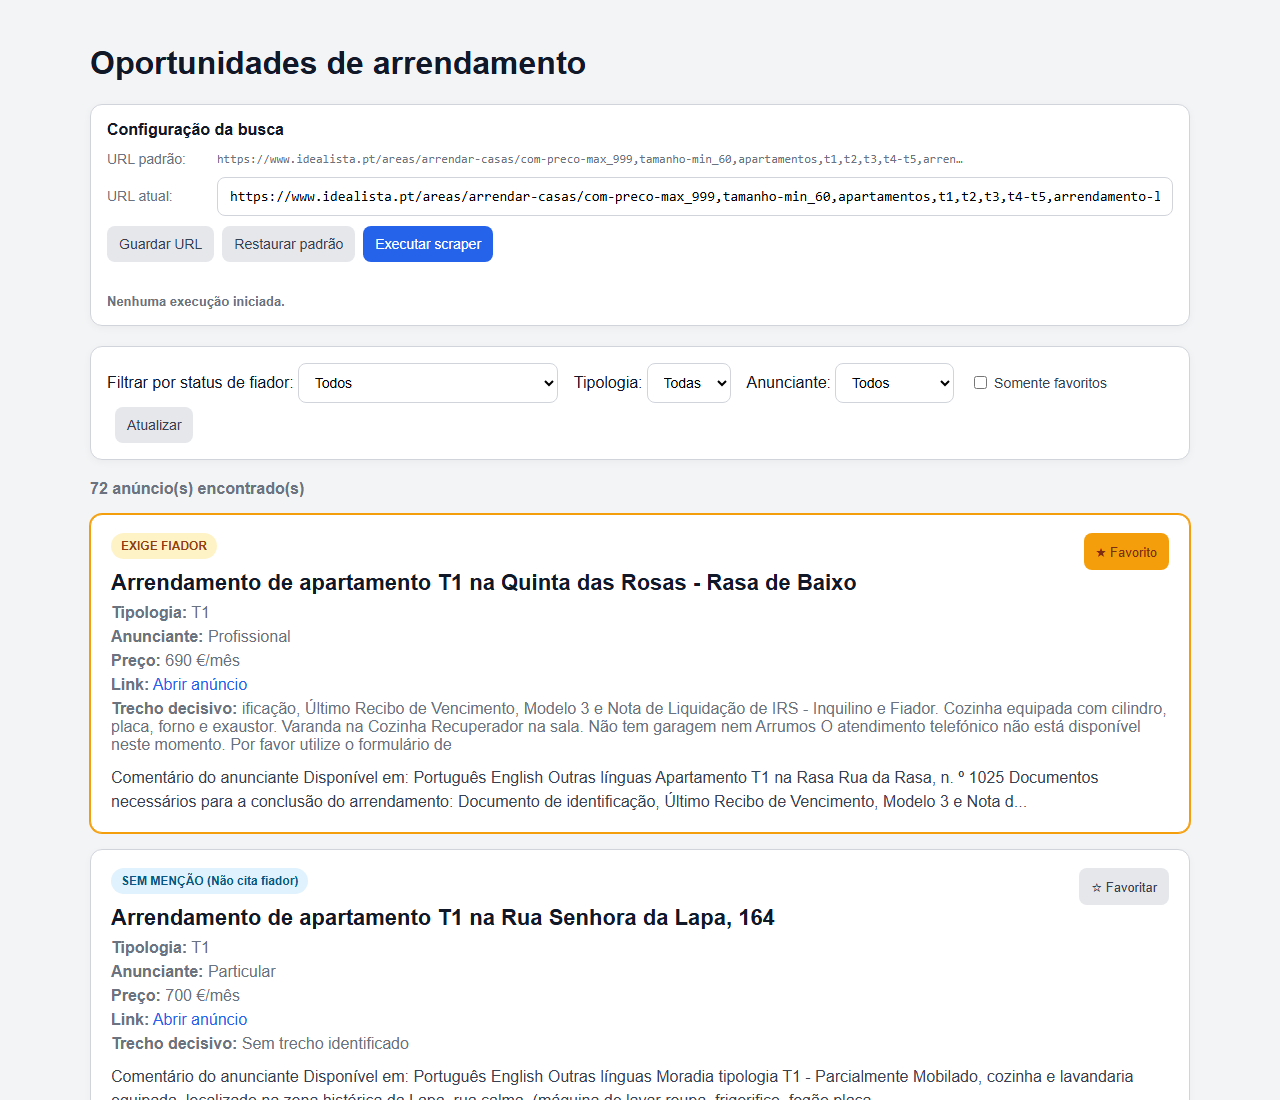
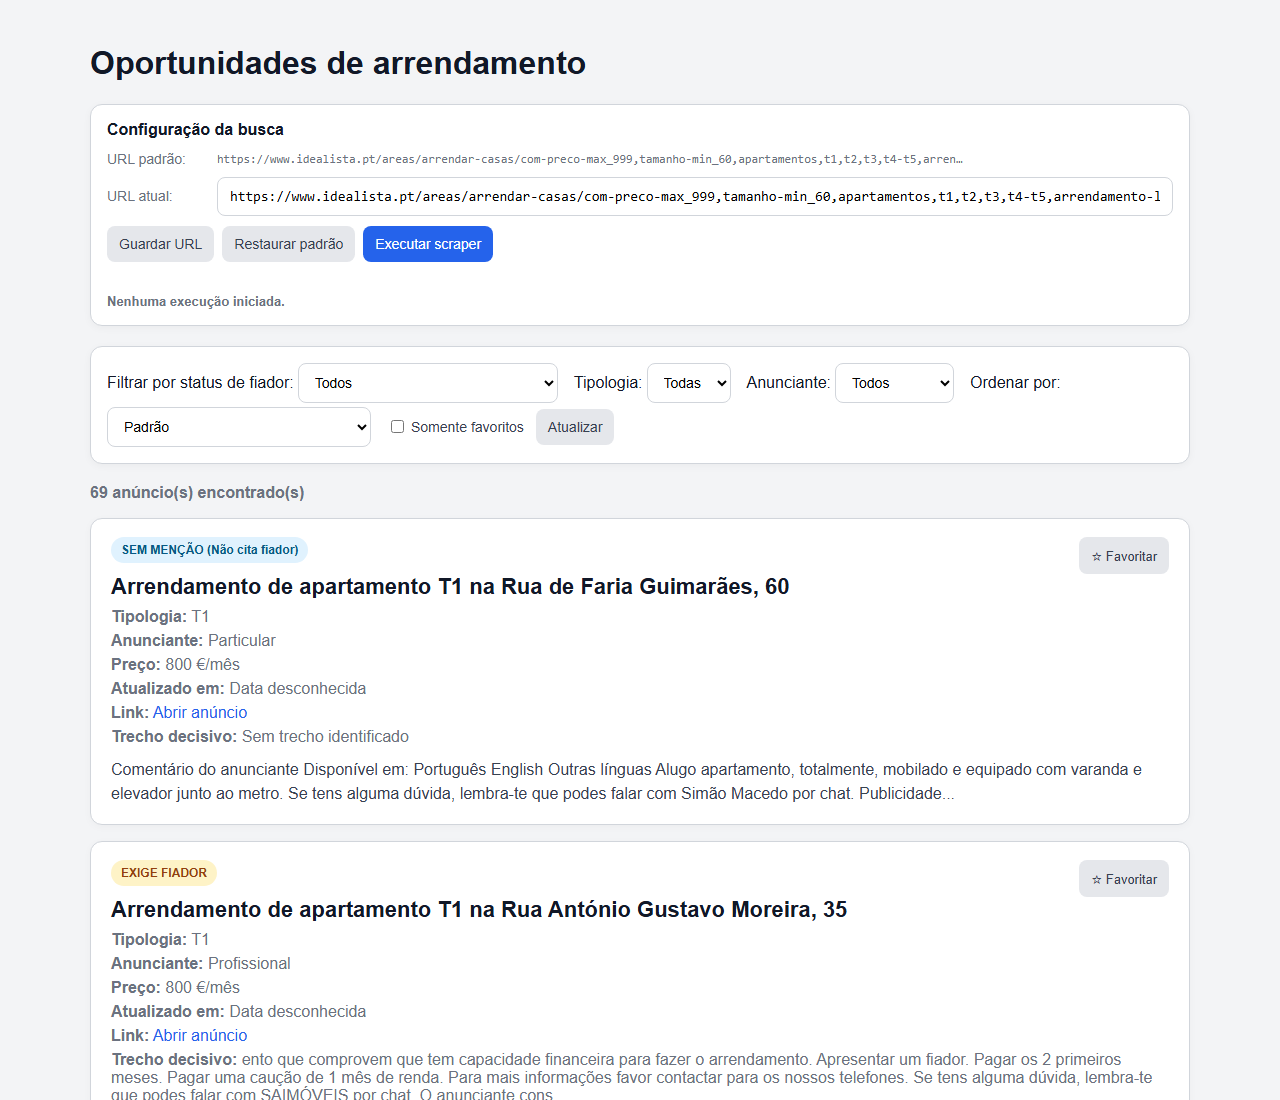
Add sorting by ad update date
- scraper.py now reads the "Anúncio atualizado no dia D de Mês" text
  idealista shows on each listing (the only recency signal it exposes) and
  stores it as an ISO date per ad; ads missing it fall back gracefully
- UI gains an "Ordenar por" dropdown (most/least recently updated), with
  undated ads always sorted to the end regardless of direction
- Add unit tests for the date-parsing helper, including the year-rollover
  edge case around December/January

diff --git a/static/app.js b/static/app.js
@@ -2,6 +2,7 @@ const els = {
   statusFilter: document.getElementById('statusFilter'),
   tipologiaFilter: document.getElementById('tipologiaFilter'),
   anuncianteFilter: document.getElementById('anuncianteFilter'),
+  sortOrder: document.getElementById('sortOrder'),
   favoritosOnly: document.getElementById('favoritosOnlyFilter'),
   summary: document.getElementById('summary'),
   results: document.getElementById('results'),
@@ -43,6 +44,12 @@ function fillSelect(selectEl, values, allLabel, allValue) {
   selectEl.value = options.includes(selected) ? selected : allValue;
 }
 
+function formatarData(isoDate) {
+  if (!isoDate) return 'Data desconhecida';
+  const [ano, mes, dia] = isoDate.split('-');
+  return `${dia}/${mes}/${ano}`;
+}
+
 function applyFilters(data) {
   const statusSelected = els.statusFilter.value || 'todos';
   const tipologiaSelected = els.tipologiaFilter.value || 'todas';
@@ -58,8 +65,22 @@ function applyFilters(data) {
   });
 }
 
+function applySort(data) {
+  const ordem = els.sortOrder.value || 'padrao';
+  if (ordem === 'padrao') return data;
+
+  const direcao = ordem === 'data_desc' ? -1 : 1;
+  return [...data].sort((a, b) => {
+    // Anúncios sem data de atualização vão sempre para o fim, independente da direção.
+    if (!a.data_atualizacao && !b.data_atualizacao) return 0;
+    if (!a.data_atualizacao) return 1;
+    if (!b.data_atualizacao) return -1;
+    return a.data_atualizacao < b.data_atualizacao ? -direcao : direcao;
+  });
+}
+
 function render() {
-  const filtered = applyFilters(cachedData);
+  const filtered = applySort(applyFilters(cachedData));
   els.summary.textContent = `${filtered.length} anúncio(s) encontrado(s)`;
 
   if (!filtered.length) {
@@ -79,6 +100,7 @@ function render() {
       <div class="meta"><strong>Tipologia:</strong> ${item.tipologia || 'Indefinida'}</div>
       <div class="meta"><strong>Anunciante:</strong> ${item.tipo_anunciante || 'Desconhecido'}</div>
       <div class="meta"><strong>Preço:</strong> ${item.preco}</div>
+      <div class="meta"><strong>Atualizado em:</strong> ${formatarData(item.data_atualizacao)}</div>
       <div class="meta"><strong>Link:</strong> <a href="${item.link}" target="_blank" rel="noreferrer">Abrir anúncio</a></div>
       <div class="meta"><strong>Trecho decisivo:</strong> ${item.trecho_status || 'Sem trecho identificado'}</div>
       <div class="descricao">${item.descricao}</div>
@@ -193,6 +215,7 @@ async function runScraper() {
 els.statusFilter.addEventListener('change', render);
 els.tipologiaFilter.addEventListener('change', render);
 els.anuncianteFilter.addEventListener('change', render);
+els.sortOrder.addEventListener('change', render);
 els.favoritosOnly.addEventListener('change', render);
 els.refreshBtn.addEventListener('click', fetchResults);
 els.saveUrlBtn.addEventListener('click', saveUrl);

diff --git a/static/index.html b/static/index.html
@@ -37,6 +37,12 @@
         <select id="tipologiaFilter"></select>
         <label for="anuncianteFilter" style="margin-left: 12px;">Anunciante:</label>
         <select id="anuncianteFilter"></select>
+        <label for="sortOrder" style="margin-left: 12px;">Ordenar por:</label>
+        <select id="sortOrder">
+          <option value="padrao">Padrão</option>
+          <option value="data_desc">Data de atualização (mais recente)</option>
+          <option value="data_asc">Data de atualização (mais antiga)</option>
+        </select>
         <label class="favoritos-only" style="margin-left: 12px;">
           <input id="favoritosOnlyFilter" type="checkbox" />
           Somente favoritos

diff --git a/scraper.py b/scraper.py
@@ -2,6 +2,7 @@ import asyncio
 import json
 import random
 import re
+from datetime import date
 from playwright.async_api import async_playwright
 
 from storage import URL_BASE_DEFAULT, Storage, default_storage
@@ -9,6 +10,12 @@ from storage import URL_BASE_DEFAULT, Storage, default_storage
 TEMPO_ENTRE_PAGINAS = 3.0
 TEMPO_ENTRE_ANUNCIOS = 2.5
 TEMPO_ANTES_PROXIMA_PAGINA = 1.5
+
+MESES_PT = {
+    "janeiro": 1, "fevereiro": 2, "março": 3, "marco": 3, "abril": 4, "maio": 5,
+    "junho": 6, "julho": 7, "agosto": 8, "setembro": 9, "outubro": 10,
+    "novembro": 11, "dezembro": 12,
+}
 
 PADROES_EXPLICITOS = [
     r"sem fiador",
@@ -136,6 +143,43 @@ def extrair_trecho_status(texto: str, padrao: str | None = None) -> str | None:
     inicio = max(0, match.start() - 90)
     fim = min(len(texto_normalizado), match.end() + 220)
     return texto_normalizado[inicio:fim].strip()
+
+
+def extrair_data_atualizacao(texto: str | None, hoje: date | None = None) -> str | None:
+    """Converte "Anúncio atualizado no dia 14 de Agosto" em "2026-08-14".
+
+    O idealista não indica o ano nesse texto, então assume-se o ano corrente;
+    se a data resultante cair no futuro (ex.: a virada do ano, analisando em
+    janeiro um anúncio atualizado em dezembro), assume-se o ano anterior.
+    """
+    if not texto or not texto.strip():
+        return None
+
+    match = re.search(
+        r"atualizad[oa]\s+no\s+dia\s+(\d{1,2})\s+de\s+([A-Za-zÀ-ÿ]+)",
+        texto,
+        re.IGNORECASE,
+    )
+    if not match:
+        return None
+
+    mes = MESES_PT.get(match.group(2).strip().lower())
+    if not mes:
+        return None
+
+    hoje = hoje or date.today()
+    try:
+        data = date(hoje.year, mes, int(match.group(1)))
+    except ValueError:
+        return None
+
+    if data > hoje:
+        try:
+            data = date(hoje.year - 1, mes, int(match.group(1)))
+        except ValueError:
+            return None
+
+    return data.isoformat()
 
 
 def detectar_bloqueio_idealista(texto: str) -> bool:
@@ -296,6 +340,17 @@ async def extrair_dados_detalhe(page):
 
     return titulo or "Imóvel", preco, descricao
 
+
+async def extrair_data_atualizacao_pagina(page) -> str | None:
+    """Lê o bloco de estatísticas do anúncio, que carrega de forma assíncrona."""
+    try:
+        el = await page.wait_for_selector(".stats-text", timeout=5000)
+        texto = (await el.inner_text()).strip()
+    except Exception:
+        texto = None
+    return extrair_data_atualizacao(texto)
+
+
 async def extrair_proxima_pagina(page):
     seletores = [
         "a[rel='next']",
@@ -397,6 +452,7 @@ async def raspar_idealista_porto(url_base: str | None = None, store: Storage | N
                 await detalhe_page.goto(url, wait_until="networkidle", timeout=20000)
 
                 titulo, preco, descricao_completa = await extrair_dados_detalhe(detalhe_page)
+                data_atualizacao = await extrair_data_atualizacao_pagina(detalhe_page)
 
                 passou_filtro, status_match, trecho_status = analisar_fiador(descricao_completa)
                 tipo_anunciante = extrair_tipo_anunciante(descricao_completa)
@@ -415,6 +471,7 @@ async def raspar_idealista_porto(url_base: str | None = None, store: Storage | N
                     "link": url,
                     "descricao": descricao_completa[:250].replace("\n", " ") + "...",
                     "passou_filtro": passou_filtro,
+                    "data_atualizacao": data_atualizacao,
                 })
 
             except Exception as e:

diff --git a/tests/unit/test_scraper_parsing.py b/tests/unit/test_scraper_parsing.py
@@ -1,4 +1,6 @@
 """Testes das funções puras de análise de texto do scraper (sem Playwright)."""
+from datetime import date
+
 import scraper
 
 
@@ -104,3 +106,26 @@ class TestAnalisarFiador:
         assert passou is True
         assert status == "EXIGE FIADOR"
         assert trecho is not None
+
+
+class TestExtrairDataAtualizacao:
+    def test_extrai_data_dentro_do_ano_corrente(self):
+        hoje = date(2026, 9, 8)
+        resultado = scraper.extrair_data_atualizacao("Anúncio atualizado no dia 14 de Agosto", hoje=hoje)
+        assert resultado == "2026-08-14"
+
+    def test_data_futura_assume_ano_anterior(self):
+        # Em janeiro, um "atualizado no dia 20 de Dezembro" só pode ser do ano passado.
+        hoje = date(2026, 1, 10)
+        resultado = scraper.extrair_data_atualizacao("Anúncio atualizado no dia 20 de Dezembro", hoje=hoje)
+        assert resultado == "2025-12-20"
+
+    def test_texto_sem_padrao_retorna_none(self):
+        assert scraper.extrair_data_atualizacao("Nenhuma informação de data aqui.") is None
+
+    def test_texto_vazio_retorna_none(self):
+        assert scraper.extrair_data_atualizacao("") is None
+        assert scraper.extrair_data_atualizacao(None) is None
+
+    def test_mes_invalido_retorna_none(self):
+        assert scraper.extrair_data_atualizacao("Anúncio atualizado no dia 14 de Nãomes") is None

diff --git a/README.md b/README.md
@@ -15,8 +15,8 @@ A aplicação roda num **único processo Python** (`app.py`, Flask): ele serve a
    - **SEM MENÇÃO** — a palavra "fiador" nem aparece no texto.
    - **EXIGE FIADOR** — o texto menciona fiador como exigência.
    - **BLOQUEADO_POR_ANTI_BOT** — a página caiu em proteção anti-bot (Cloudflare, captcha, etc.) e não pôde ser lida.
-4. Salva tudo em `data/resultados_idealista.json`.
-5. A interface consome esses dados via API (`/api/results`), com filtros por status, tipologia, tipo de anunciante e **favoritos**.
+4. Salva tudo em `data/resultados_idealista.json`, incluindo a **data de atualização** do anúncio (lida do bloco "Anúncio atualizado no dia..." da própria página do idealista — é a única data que o site expõe; não há campo separado de "data de publicação").
+5. A interface consome esses dados via API (`/api/results`), com filtros por status, tipologia, tipo de anunciante e **favoritos**, além de ordenação por data de atualização (mais recente/mais antiga primeiro).
 
 ## Arquitetura
 
@@ -64,6 +64,7 @@ Abra `http://127.0.0.1:8000/`. Na interface:
 - **Configuração da busca**: ajuste a "URL atual" (localização, preço, tipologia, etc. — cole aqui a URL de uma busca no idealista.pt) e clique em **Guardar URL**. A "URL padrão" nunca é sobrescrita; use **Restaurar padrão** para voltar a ela a qualquer momento.
 - **Executar scraper**: dispara a varredura com a URL atual configurada. O botão fica desativado enquanto a execução está em curso e a interface faz polling do estado (`/api/scrape/status`) até concluir, recarregando os resultados automaticamente.
 - **Favoritar**: cada anúncio tem um botão ★/☆ para marcar/desmarcar como favorito. Use o filtro "Somente favoritos" para ver só os marcados.
+- **Ordenar por**: escolha "Data de atualização (mais recente)" ou "(mais antiga)" para reordenar os cards; anúncios sem data identificada (raro, quando o site não expõe o bloco de estatísticas) ficam sempre no fim da lista.
 
 Os arquivos gerados (`historico_anuncios.json`, `resultados_idealista.json`, `config.json`, `favoritos.json`, `scraper_log.txt`) ficam em `data/` e não são versionados.
 
@@ -74,7 +75,7 @@ pip install -r requirements-dev.txt
 pytest
 ```
 
-- `tests/unit/test_scraper_parsing.py` — funções puras de classificação de texto (fiador, tipologia, tipo de anunciante, bloqueio anti-bot).
+- `tests/unit/test_scraper_parsing.py` — funções puras de classificação de texto (fiador, tipologia, tipo de anunciante, bloqueio anti-bot, data de atualização).
 - `tests/unit/test_storage.py` — persistência de histórico, resultados, configuração e favoritos, isolada em pastas temporárias.
 - `tests/unit/test_scrape_runner.py` — orquestração da execução em segundo plano (sucesso, erro, e bloqueio de execuções concorrentes), usando um coroutine falso no lugar do Playwright real.
 - `tests/integration/test_api.py` — todas as rotas da API Flask via test client, incluindo o fluxo completo de configurar URL, favoritar e disparar/concluir um scrape simulado.
